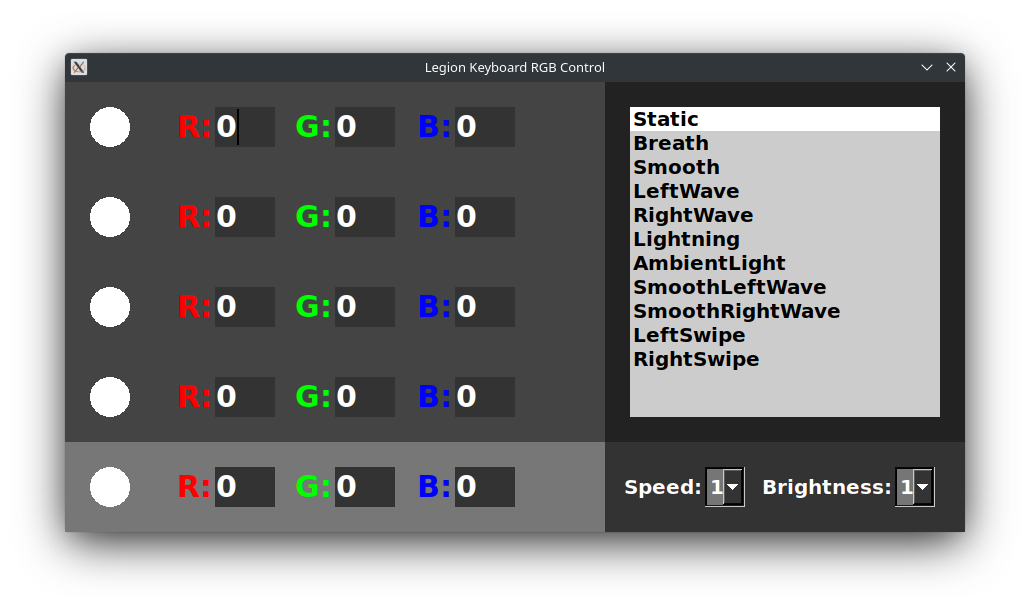
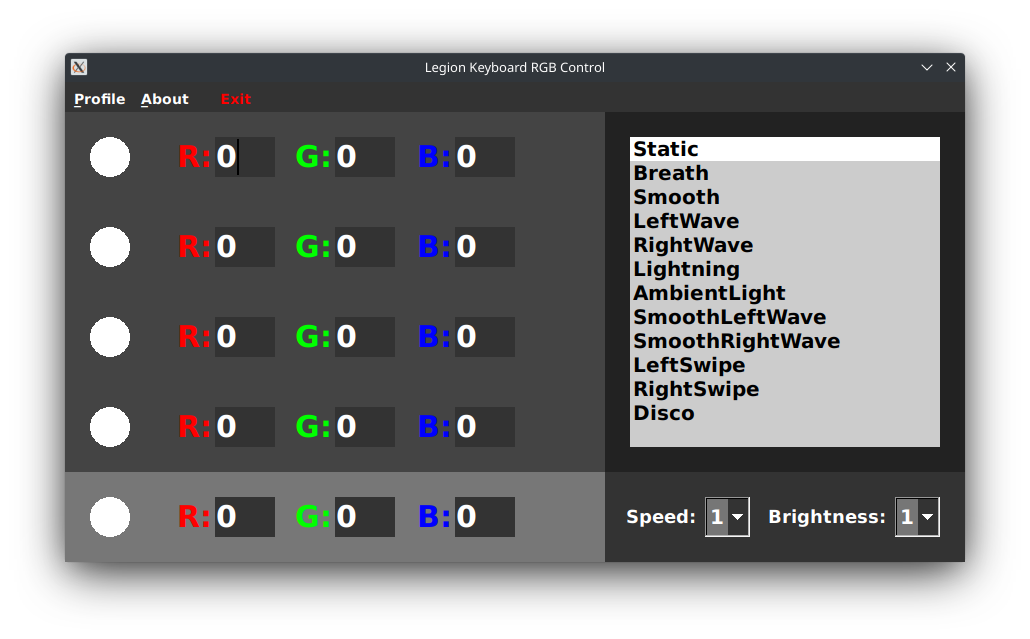
Add usage section, replace screenshot, change image location branch to main

diff --git a/README.md b/README.md
@@ -1,11 +1,12 @@
 # Preview
 
-![Preview](https://github.com/4JX/L5P-Keyboard-RGB/blob/dev/Preview.png)
+![Preview](https://github.com/4JX/L5P-Keyboard-RGB/blob/main/Preview.png)
 
 # Index
 
 - [Download](#download)
 - [Available effects](#available-effects)
+- [Usage](#usage)
 - [Compatibility](#compatibility)
 - [Building from source](#building-from-source)
   - [Using `cargo-make`](#using-cargo-make)
@@ -30,6 +31,44 @@ You may also download precompiled versions from [here](https://github.com/4JX/L5
 - **Smooth(Left/Right)Wave:** An implementation of the classic wave effect.
 - **(Left/Right)Swipe:** Transitions the selected colors from side to side, useful for custom waves.
 - **Disco:** A portable dance floor!
+
+# Usage
+
+## ℹ Note
+
+If you are using the program on Linux, you'll need to run the program as root.
+
+## With GUI
+
+Execute the file by double-clicking on it or running it from a console _without_ arguments.
+
+## Via the command line
+
+Usage:
+
+```sh
+$ legion-kb-rgb [OPTIONS] [SUBCOMMAND]
+```
+
+Examples:
+
+- Getting the help prompt
+
+```sh
+$ legion-kb-rgb --help
+```
+
+- Setting the keyboard to red
+
+```sh
+$ legion-kb-rgb Static 255,0,0,255,0,0,255,0,0,255,0,0
+```
+
+- Using the SmoothLeftWave with speed `4` and brightness at high
+
+```sh
+$ legion-kb-rgb -s 4 -b 2 SmoothLeftWave
+```
 
 # Compatibility
 
